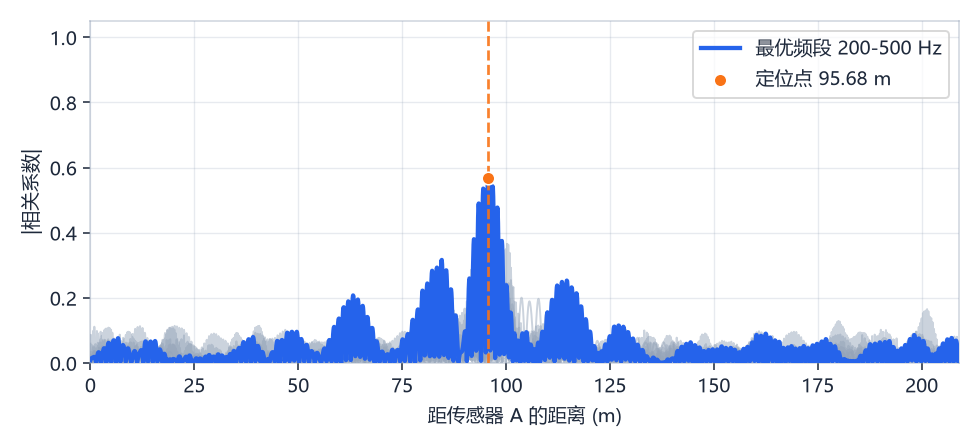
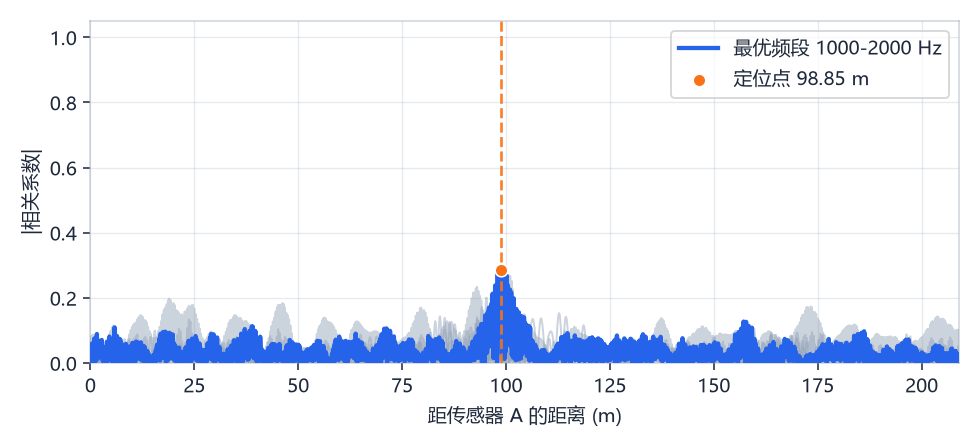
feat: 增加相关计算的最大样本限制，优化结果报告数据

Changed region(s): [[0.0918, 0.0625, 0.9796, 0.8125], [0.6735, 0.1562, 0.9184, 0.2188], [0.6735, 0.0625, 0.9184, 0.125]]

diff --git a/core/analysis.py b/core/analysis.py
@@ -20,6 +20,8 @@ PASS_RIPPLE_DB = 1.0
 STOP_ATTEN_DB = 40.0
 #: 定位有效性阈值：SNR 低于该值视为不可信（与 MATLAB locating.m 的 flag 判据一致）
 SNR_VALID_THRESHOLD = 6.0
+#: 每个时延点参与归一化相关计算的最长有效窗口。对应 7500 Hz 时的 5000 点。
+CORRELATION_WINDOW_SECONDS = 5000.0 / SAMPLE_RATE
 
 #: 默认扫描频段（Hz）
 DEFAULT_BANDS = [
@@ -71,18 +73,22 @@ def chebyshev2_bandpass(values: Iterable[float], low: float, high: float,
         return x.copy()
 
 
-def pearson_overlap(a: np.ndarray, b: np.ndarray, offset: int) -> float:
+def pearson_overlap(a: np.ndarray, b: np.ndarray, offset: int,
+                    max_samples: int | None = None) -> float:
     if a.size == 0 or b.size == 0:
         return 0.0
 
     a_start = max(0, offset)
     a_end = min(a.size, offset + b.size)
     length = a_end - a_start
+    if max_samples is not None:
+        length = min(length, max(0, max_samples))
     if length < 2:
         return 0.0
 
     segment_a = np.asarray(a[a_start:a_end], dtype=np.float64)
-    segment_b = np.asarray(b[0:length], dtype=np.float64)
+    segment_a = segment_a[:length]
+    segment_b = np.asarray(b[:length], dtype=np.float64)
     if not np.all(np.isfinite(segment_a)) or not np.all(np.isfinite(segment_b)):
         return 0.0
 
@@ -126,14 +132,21 @@ def correlation_vector(a: np.ndarray, b: np.ndarray, distance: float,
     max_lag = int(np.floor(max_time_diff_us / sampling_interval_us))
     point_num = 1 + 2 * max_lag
     center = max_lag
+    correlation_window_samples = max(
+        2, int(round(CORRELATION_WINDOW_SECONDS * fs))
+    )
 
     corr = np.zeros(point_num, dtype=np.float64)
     dis_axis = np.zeros(point_num, dtype=np.float64)
 
     for i in range(max_lag + 1):
         # a 相对 b 延迟 i 个采样点时，传播到 A 的距离增加。
-        corr[center + i] = pearson_overlap(a, b, i)
-        corr[center - i] = pearson_overlap(b, a, i)
+        corr[center + i] = pearson_overlap(
+            a, b, i, correlation_window_samples
+        )
+        corr[center - i] = pearson_overlap(
+            b, a, i, correlation_window_samples
+        )
         half = velocity * sampling_interval_us / 2.0 * i * 1e-6
         dis_axis[center - i] = distance / 2.0 - half
         dis_axis[center + i] = distance / 2.0 + half

diff --git a/tests/test_analysis.py b/tests/test_analysis.py
@@ -50,7 +50,7 @@ class ReportSampleTests(unittest.TestCase):
                     data_a[:75000], data_b[:75000], 209.0, 1160.0, *band
                 )
                 self.assertTrue(result.ok)
-                self.assertLessEqual(abs(result.dis_a - expected), 2.1)
+                self.assertLessEqual(abs(result.dis_a - expected), 0.63)
 
 
 class ApplyConfigTests(unittest.TestCase):
